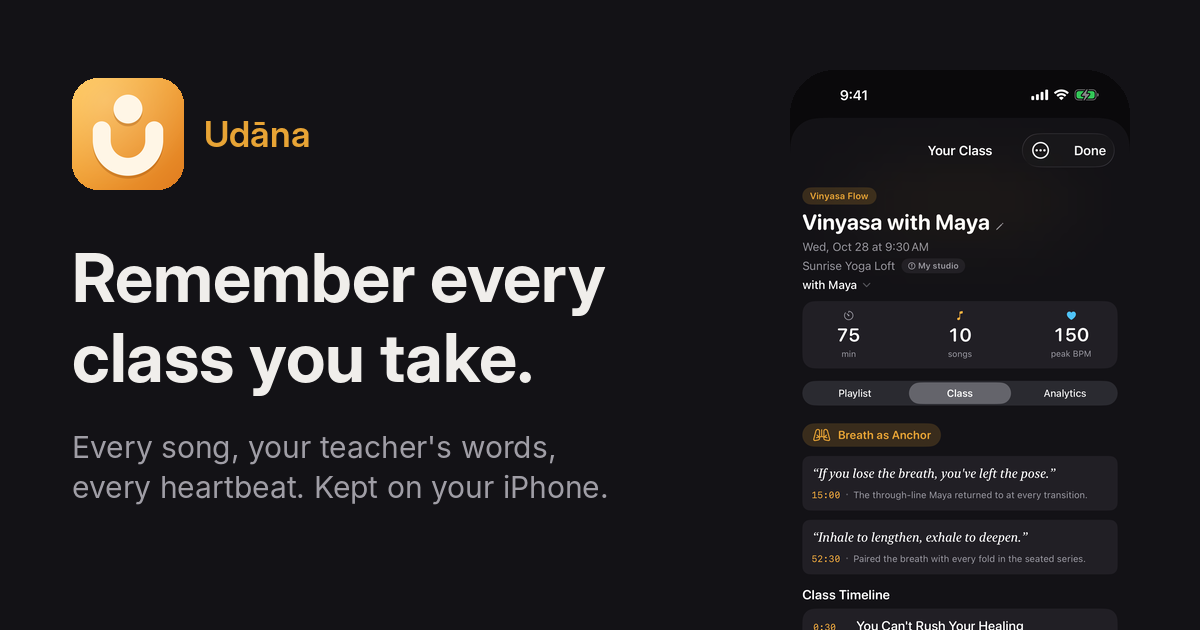
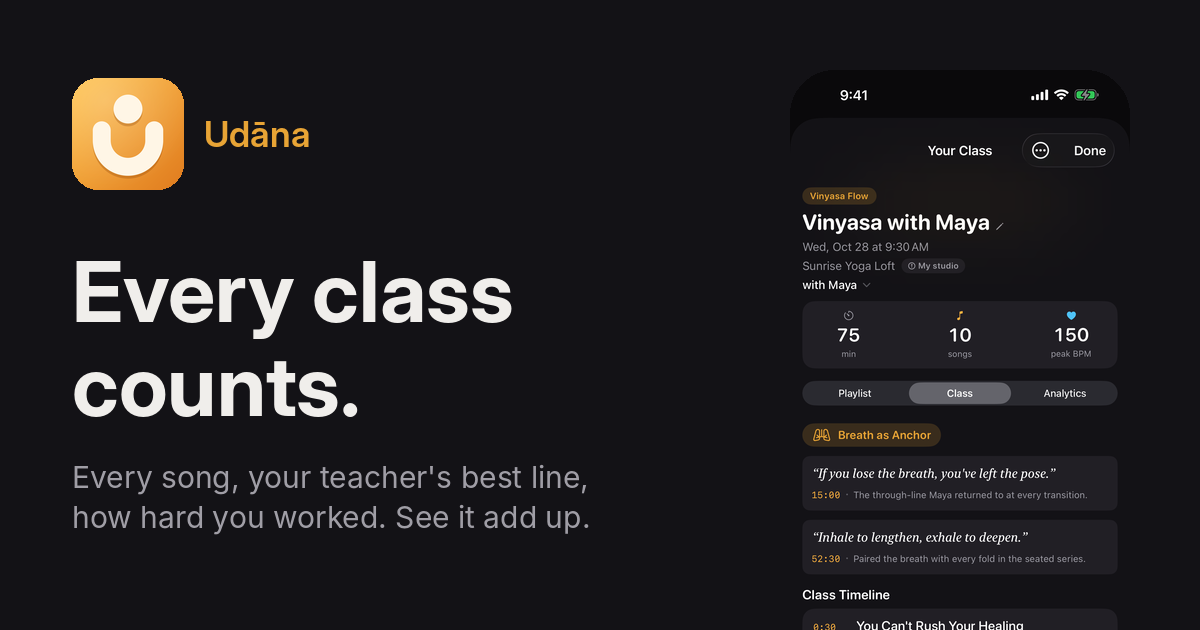
Landing page: Every class counts positioning, sections in the new order (song, growth, teachers, share, one tap), new Open Graph image

Changed region(s): [[0.0617, 0.3921, 0.5242, 0.6635], [0.0617, 0.6937, 0.4933, 0.8444]]

diff --git a/index.html b/index.html
@@ -3,8 +3,8 @@
 <head>
     <meta charset="UTF-8">
     <meta name="viewport" content="width=device-width, initial-scale=1.0, viewport-fit=cover">
-    <title>Udāna: Remember every class you take | Yoga class memory for iPhone</title>
-    <meta name="description" content="Tap Start when class begins. Udāna keeps every song, the words your teacher said and your heart rate, then builds a page for every teacher. Free for iPhone, iPad and Apple Watch.">
+    <title>Udāna: every yoga class counts | Yoga practice log for iPhone</title>
+    <meta name="description" content="Every class counts. Udāna turns each yoga class into a record you're proud of: every song, your teacher's best line and your heart rate with Apple Watch. Free for iPhone, iPad and Apple Watch.">
     <link rel="canonical" href="https://jakeintech.github.io/udana-site/">
     <meta name="theme-color" content="#131216">
     <meta name="color-scheme" content="dark">
@@ -15,13 +15,13 @@
     <!-- Open Graph / social -->
     <meta property="og:type" content="website">
     <meta property="og:site_name" content="Udāna">
-    <meta property="og:title" content="Udāna: Remember every class you take">
-    <meta property="og:description" content="Every song, your teacher's words, every heartbeat. Kept on your iPhone.">
+    <meta property="og:title" content="Udāna: every yoga class counts">
+    <meta property="og:description" content="Every song, your teacher's best line, how hard you worked. Watch your practice add up.">
     <meta property="og:url" content="https://jakeintech.github.io/udana-site/">
     <meta property="og:image" content="https://jakeintech.github.io/udana-site/assets/og-image.png">
     <meta property="og:image:width" content="1200">
     <meta property="og:image:height" content="630">
-    <meta property="og:image:alt" content="Udāna class review showing a teacher's quote and the class playlist">
+    <meta property="og:image:alt" content="Udāna class review with the class stats, a teacher’s line and the playlist">
     <meta name="twitter:card" content="summary_large_image">
 
     <link rel="icon" type="image/png" href="assets/favicon.png">
@@ -35,7 +35,7 @@
       "name": "Udāna",
       "operatingSystem": "iOS",
       "applicationCategory": "HealthApplication",
-      "description": "Remember every class you take: every song, the words your teacher said, and how your body moved.",
+      "description": "Every class counts. Udāna turns each yoga class into a record you're proud of: every song, your teacher's best line and your heart rate.",
       "offers": { "@type": "Offer", "price": "0", "priceCurrency": "USD" },
       "url": "https://apps.apple.com/app/id6762299975"
     }
@@ -164,9 +164,9 @@
 
         <header class="hero">
             <div>
-                <p class="eyebrow">For yoga and studio classes</p>
-                <h1>Remember every class you take.</h1>
-                <p class="lede">Tap Start when class begins and put your phone away. Afterwards you'll have every song in order, the words your teacher said, and how your body moved from the first breath to final rest.</p>
+                <p class="eyebrow">A practice log for yoga</p>
+                <h1>Every class counts.</h1>
+                <p class="lede">Udāna turns every yoga class into a beautiful record: every song, your teacher's best line, how hard you worked with Apple Watch. Tap Start, put your phone away, and watch your practice add up.</p>
                 <a class="appstore" href="https://apps.apple.com/app/id6762299975" aria-label="Download Udāna on the App Store">
                     <svg viewBox="0 0 24 24" aria-hidden="true"><path fill="currentColor" d="M16.37 12.6c-.02-2.2 1.8-3.26 1.88-3.31-1.03-1.5-2.62-1.7-3.18-1.73-1.35-.14-2.64.8-3.32.8-.69 0-1.74-.78-2.86-.76-1.47.02-2.83.86-3.59 2.17-1.53 2.65-.39 6.58 1.1 8.73.73 1.05 1.6 2.23 2.73 2.19 1.1-.04 1.51-.71 2.84-.71 1.32 0 1.7.71 2.86.69 1.18-.02 1.93-1.07 2.65-2.13.84-1.22 1.18-2.4 1.2-2.46-.03-.01-2.3-.88-2.31-3.48zM14.2 6.13c.6-.73 1.01-1.75.9-2.76-.87.04-1.92.58-2.54 1.31-.56.65-1.05 1.68-.92 2.67.97.08 1.96-.49 2.56-1.22z"/></svg>
                     <span><small>Download on the</small>App Store</span>
@@ -180,19 +180,27 @@
     <main class="wrap" id="how">
         <section class="benefit">
             <div class="copy">
-                <h2>Tap Start. Stay present.</h2>
-                <p>One tap before class and your phone goes back in your bag. While the IN CLASS banner shows, Udāna recognizes each song and gathers your teacher's words. Sound is understood on your iPhone in the moment, then let go. Nothing is saved.</p>
+                <h2>Never lose the song.</h2>
+                <p>That song from savasana, found. Every song from class, in the order it played, ready to open in Apple Music or Spotify. Over time the Music tab gathers every song you've practised to, with who played it and when.</p>
             </div>
-            <div class="phone"><img src="assets/live.webp" width="600" height="1304" loading="lazy" alt="The IN CLASS screen with the class timer and the song that's playing"></div>
+            <div class="phone"><img src="assets/music.webp" width="600" height="1304" loading="lazy" alt="The Music tab listing songs heard in class, most heard first"></div>
         </section>
 
         <section class="benefit">
             <div class="copy">
-                <h2>Your teachers, remembered.</h2>
-                <p>Every teacher you tag gets a page of their own, and Udāna suggests who taught from your history, so tagging takes one tap.</p>
+                <h2>See your practice grow.</h2>
+                <p>Your heart rate from warm-up to final rest with Apple Watch, your weekly rhythm, the milestones you reach, and a monthly look at the teachers, styles and music that shaped your practice.</p>
+            </div>
+            <div class="phone"><img src="assets/insights.webp" width="600" height="1304" loading="lazy" alt="Insights showing a month of practice"></div>
+        </section>
+
+        <section class="benefit">
+            <div class="copy">
+                <h2>Your teachers, celebrated.</h2>
+                <p>Every teacher you practise with gets a page of their own, and Udāna suggests who taught from your history, so tagging takes one tap.</p>
                 <ul>
                     <li>The songs they love, most played first</li>
-                    <li>The themes and phrases they come back to</li>
+                    <li>The lines they come back to</li>
                     <li>Every class you've taken together</li>
                 </ul>
             </div>
@@ -201,15 +209,7 @@
 
         <section class="benefit">
             <div class="copy">
-                <h2>Every song from class.</h2>
-                <p>That song from savasana, found. Every song that carried you through class is gathered in one place, with who played it and when. Open it in Apple Music or Spotify, or save a teacher's songs as a playlist of your own.</p>
-            </div>
-            <div class="phone"><img src="assets/music.webp" width="600" height="1304" loading="lazy" alt="The Music tab listing songs heard in class, most heard first"></div>
-        </section>
-
-        <section class="benefit">
-            <div class="copy">
-                <h2>Share it to your Story.</h2>
+                <h2>Made to share.</h2>
                 <p>Turn any class into a card, with a photo from the studio if you like, and share it to your Instagram Story or anywhere else. Send the workout to Strava if that's where your training lives.</p>
             </div>
             <div class="phone"><img src="assets/share.webp" width="600" height="1304" loading="lazy" alt="The share screen with a class card showing the playlist, heart rate and the teacher's theme"></div>
@@ -217,14 +217,14 @@
 
         <section class="benefit">
             <div class="copy">
-                <h2>Find any moment again.</h2>
-                <p>Search by song, teacher, studio, or a line your teacher said. Classes and teachers show up in iPhone Search too.</p>
+                <h2>One tap, then back to your mat.</h2>
+                <p>Start on iPhone, on Apple Watch or with Siri, then put the phone away. While the IN CLASS banner shows, Udāna recognizes each song and gathers your teacher's words. Sound is understood on your iPhone in the moment and never saved.</p>
             </div>
-            <div class="phone"><img src="assets/search.webp" width="600" height="1304" loading="lazy" alt="Search results for classes, teachers and songs"></div>
+            <div class="phone"><img src="assets/live.webp" width="600" height="1304" loading="lazy" alt="The IN CLASS screen with the class timer and the song that's playing"></div>
         </section>
 
         <section class="also" aria-label="More features">
-            <div class="card"><h3>Apple Watch and Siri</h3><p>Start and end class from your wrist, or just ask Siri. Your heart rate joins the class from warm-up to final rest.</p></div>
+            <div class="card"><h3>Find any class again</h3><p>Search by song, teacher, studio or a line your teacher said. Classes and teachers show up in iPhone Search too.</p></div>
             <div class="card"><h3>Widgets and Live Activity</h3><p>The class stays on your Lock Screen while it runs, and your last class and streak live on your Home Screen.</p></div>
             <div class="card"><h3>Private by design</h3><p>No account, no ads. Class sound is never saved or uploaded, and your library lives on your iPhone.</p></div>
         </section>
@@ -247,7 +247,7 @@
         </section>
 
         <section class="final">
-            <h2>Your next class is worth keeping.</h2>
+            <h2>Make your next class count.</h2>
             <a class="appstore" href="https://apps.apple.com/app/id6762299975" aria-label="Download Udāna on the App Store">
                 <svg viewBox="0 0 24 24" aria-hidden="true"><path fill="currentColor" d="M16.37 12.6c-.02-2.2 1.8-3.26 1.88-3.31-1.03-1.5-2.62-1.7-3.18-1.73-1.35-.14-2.64.8-3.32.8-.69 0-1.74-.78-2.86-.76-1.47.02-2.83.86-3.59 2.17-1.53 2.65-.39 6.58 1.1 8.73.73 1.05 1.6 2.23 2.73 2.19 1.1-.04 1.51-.71 2.84-.71 1.32 0 1.7.71 2.86.69 1.18-.02 1.93-1.07 2.65-2.13.84-1.22 1.18-2.4 1.2-2.46-.03-.01-2.3-.88-2.31-3.48zM14.2 6.13c.6-.73 1.01-1.75.9-2.76-.87.04-1.92.58-2.54 1.31-.56.65-1.05 1.68-.92 2.67.97.08 1.96-.49 2.56-1.22z"/></svg>
                 <span><small>Download on the</small>App Store</span>
